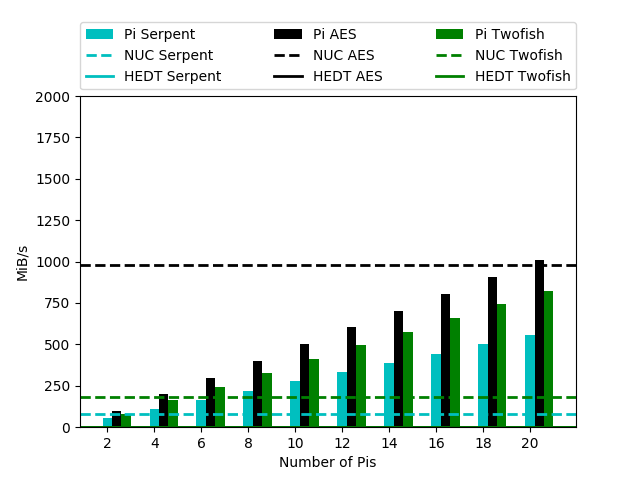
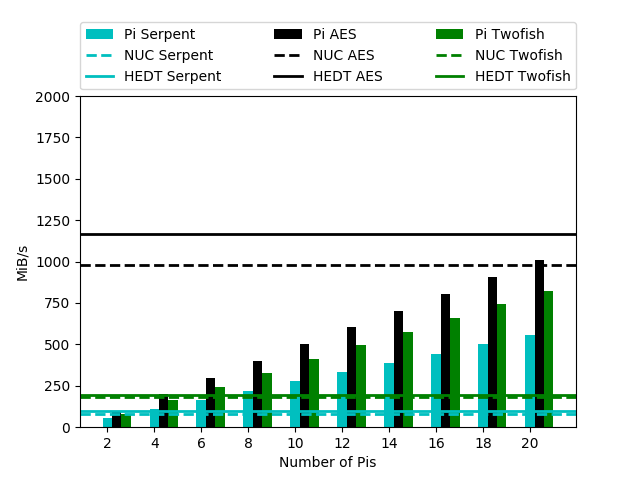
new plots included HEDT

diff --git a/plots/barplot_256.py b/plots/barplot_256.py
@@ -12,37 +12,37 @@ fig,ax = plt.subplots()
 
 ###SERPENT
 nuc_secrypt = 83.4 
-hpc_secrypt = 0.0
+hpc_secrypt = 102.5
 pi_secrypt = [52.99, 109.49, 165.66, 221.78, 277.72, 333.67, 389.39, 445.48, 501.85, 555.92]
 
 ###TWOFISH data
 nuc_tecrypt = 175.7
-hpc_tecrypt = 0.0
+hpc_tecrypt = 193.1
 pi_tecrypt = [78.67, 162.89, 246.2, 328.64, 411.93, 494.73, 577.22, 660.32, 743.47, 824.23]
 
 ###AES DATA
 nuc_aecrypt = 750.9
-hpc_aecrypt = 0.0
+hpc_aecrypt = 854.7
 pi_aecrypt = [71.51, 148.29, 224.71, 300.1, 376.4, 452.16, 527.57, 603.79, 679.94, 753.58]
 
 ######################## DECRYPT DATA #########################
 
 ###SERPENT DATA
-#nuc_secrypt = 581.1
-#hpc_secrypt = 0.0
-#pi_tecrypt = [56.94, 117.47, 177.78, 237.44, 297.69, 357.55, 417.43, 477.64, 538.07, 596.07]
+nuc_secrypt = 581.1
+hpc_secrypt = 374.3 
+pi_tecrypt = [56.94, 117.47, 177.78, 237.44, 297.69, 357.55, 417.43, 477.64, 538.07, 596.07]
 
 
 ###TWOFISH data
-#nuc_tecrypt = 340.4
-#hpc_tecrypt = 0.0
-#pi_tdcrypt = [84.24, 174.39, 263.29, 351.52, 440.33, 528.99, 616.92, 706.24, 795.29, 881.62]
+nuc_tecrypt = 340.4
+hpc_tecrypt = 378.7
+pi_tdcrypt = [84.24, 174.39, 263.29, 351.52, 440.33, 528.99, 616.92, 706.24, 795.29, 881.62]
 
 
 ###AES DATA
-#nuc_aecrypt = 2335.6 
-#hpc_aecrypt = 0.0
-#pi_aecrypt = [85.07, 176.64, 267.42, 357.07, 447.79, 538.5, 628.38, 719.12, 810.24, 897.66]
+nuc_aecrypt = 2335.6 
+hpc_aecrypt =  3164.7
+pi_aecrypt = [85.07, 176.64, 267.42, 357.07, 447.79, 538.5, 628.38, 719.12, 810.24, 897.66]
 
 
 #creates seperate plots for encrypt and decrypt --uncomment the one you need
@@ -83,7 +83,7 @@ ax.legend([handles[idx] for idx in order],[labels[idx] for idx in order],
 bbox_to_anchor=(0., 1.02, 1., 0.2), loc='lower left', ncol=3,  mode="expand", borderaxespad=0.)
 plt.subplots_adjust(top=0.8)
 
-ax.set_ylim([0,2000])
+ax.set_ylim([0,4000])
 #plt.xlim([0,x.size])
 #plt.axis('tight')
 

diff --git a/plots/barplot_128.py b/plots/barplot_128.py
@@ -17,17 +17,17 @@ fig,ax = plt.subplots()
 
 ###SERPENT
 nuc_secrypt = 79.2 
-hpc_secrypt = 0.0
+hpc_secrypt = 100.8
 pi_secrypt = [52.54, 108.9, 165.15, 220.79, 276.91, 332.91, 388.33, 444.91, 501.85, 554.09]
 
 ###TWOFISH data
 nuc_tecrypt = 182.3
-hpc_tecrypt = 0.0
+hpc_tecrypt = 194.8
 pi_tecrypt = [78.03, 161.88, 245.24, 327.55, 410.9, 493.95, 576.59, 659.61, 743.01, 823.11]
 
 ###AES DATA
 nuc_aecrypt = 977.0
-hpc_aecrypt = 0.0
+hpc_aecrypt = 1167.2
 pi_aecrypt = [95.26, 197.74, 299.99, 401.5, 503.73, 602.6, 703.38, 806.23, 909.04, 1007.0]
 
 
@@ -36,17 +36,17 @@ pi_aecrypt = [95.26, 197.74, 299.99, 401.5, 503.73, 602.6, 703.38, 806.23, 909.0
 
 ###SERPENT
 #nuc_secrypt =  610.5 
-#hpc_secrypt = 0.0
+#hpc_secrypt = 360.6
 #pi_secrypt = [56.36, 116.87, 177.2, 236.77, 297.08, 357.06, 416.78, 477.14, 537.23,594.79]
 
 ###TWOFISH data
 #nuc_tecrypt = 341.1
-#hpc_tecrypt = 0.0
+#hpc_tecrypt = 386.6 
 #pi_tecrypt = [83.62, 173.32, 262.44, 350.58, 439.68, 528.52, 616.56, 705.74, 794.89, 880.6]
 
 ###AES DATA
 #nuc_aecrypt =  2889.1
-#hpc_aecrypt = 0.0
+#hpc_aecrypt = 3663.1
 #pi_aecrypt = [112.01, 232.32, 352.67, 471.62, 591.98, 710.41,  827.78, 949.13, 1069.88, 1183.05]
 
 
